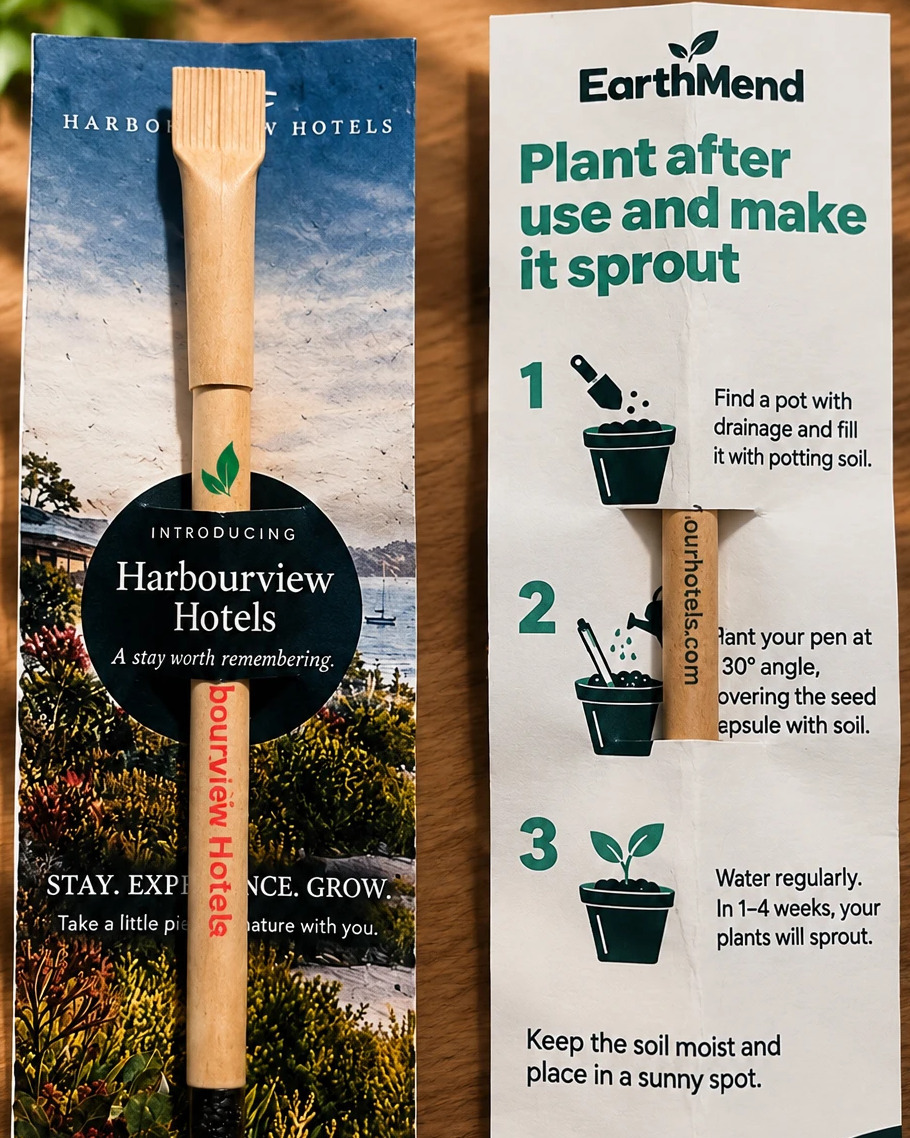
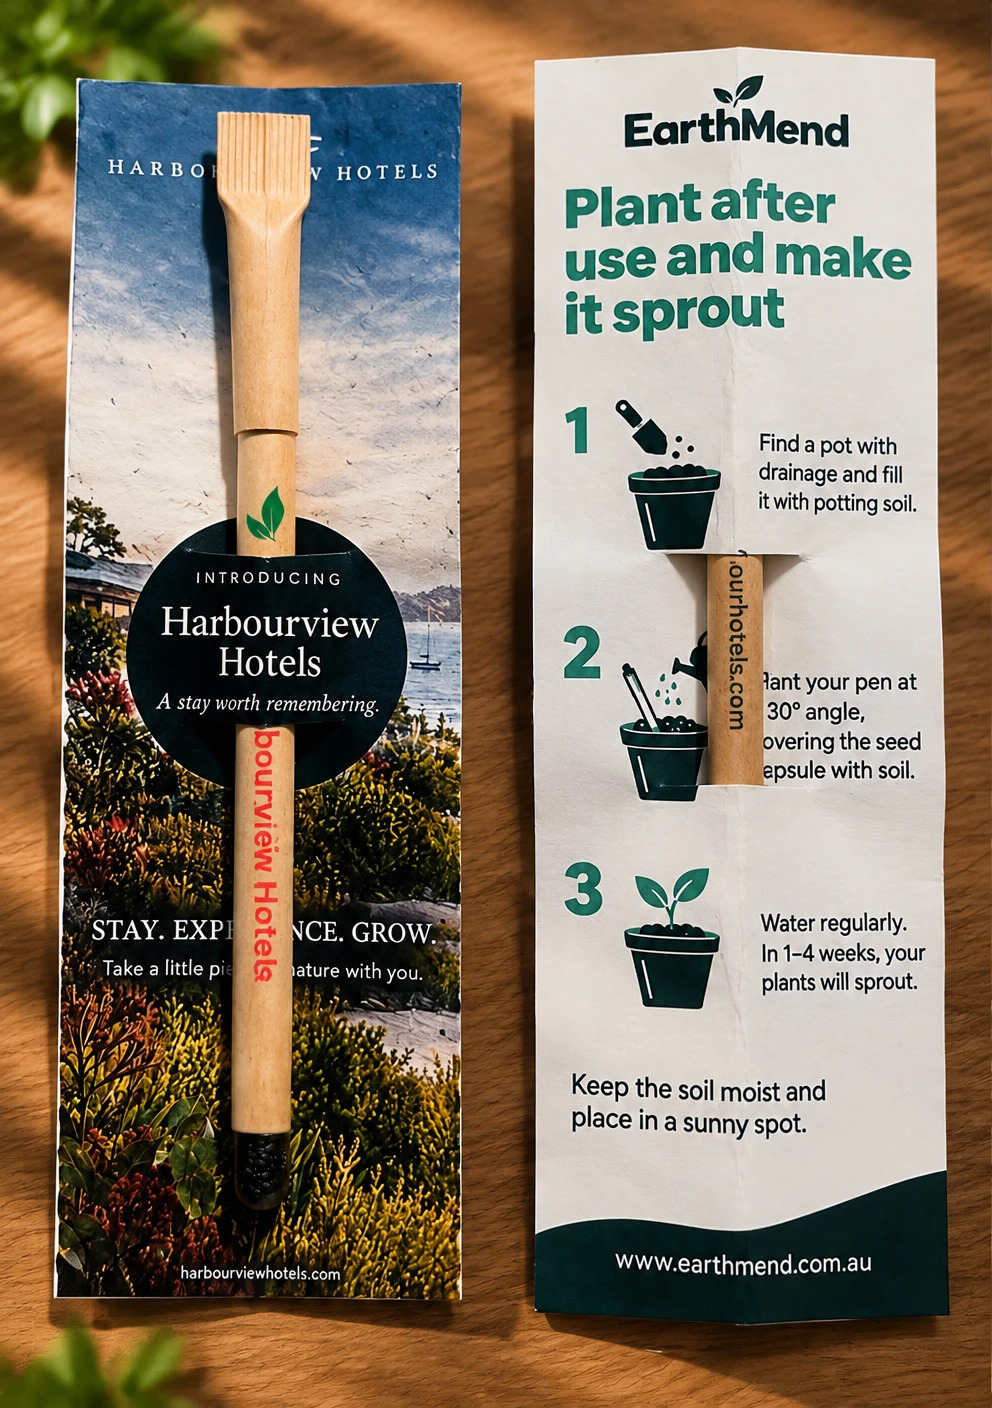
Stop cropping The Idea section photo — show it uncropped
Uses the full original photo and sets the image's aspect ratio to
match its native dimensions exactly, so nothing is cut by the
object-cover fit; the table background and both panels are now fully
visible.
Claude-Session: https://claude.ai/code/session_014zyHveMNJe7uEC3QiLMfdT

diff --git a/src/components/sections/TheIdea.tsx b/src/components/sections/TheIdea.tsx
@@ -39,7 +39,7 @@ export default function TheIdea({ id }: { id?: string }) {
               src={ideaSectionImage}
               alt="A pen in a custom-branded card sleeve beside EarthMend's 'Plant after use and make it sprout' instructions card"
               className="w-full object-cover"
-              style={{ aspectRatio: "4 / 5" }}
+              style={{ aspectRatio: "992 / 1408" }}
               loading="lazy"
             />
           </Reveal>
